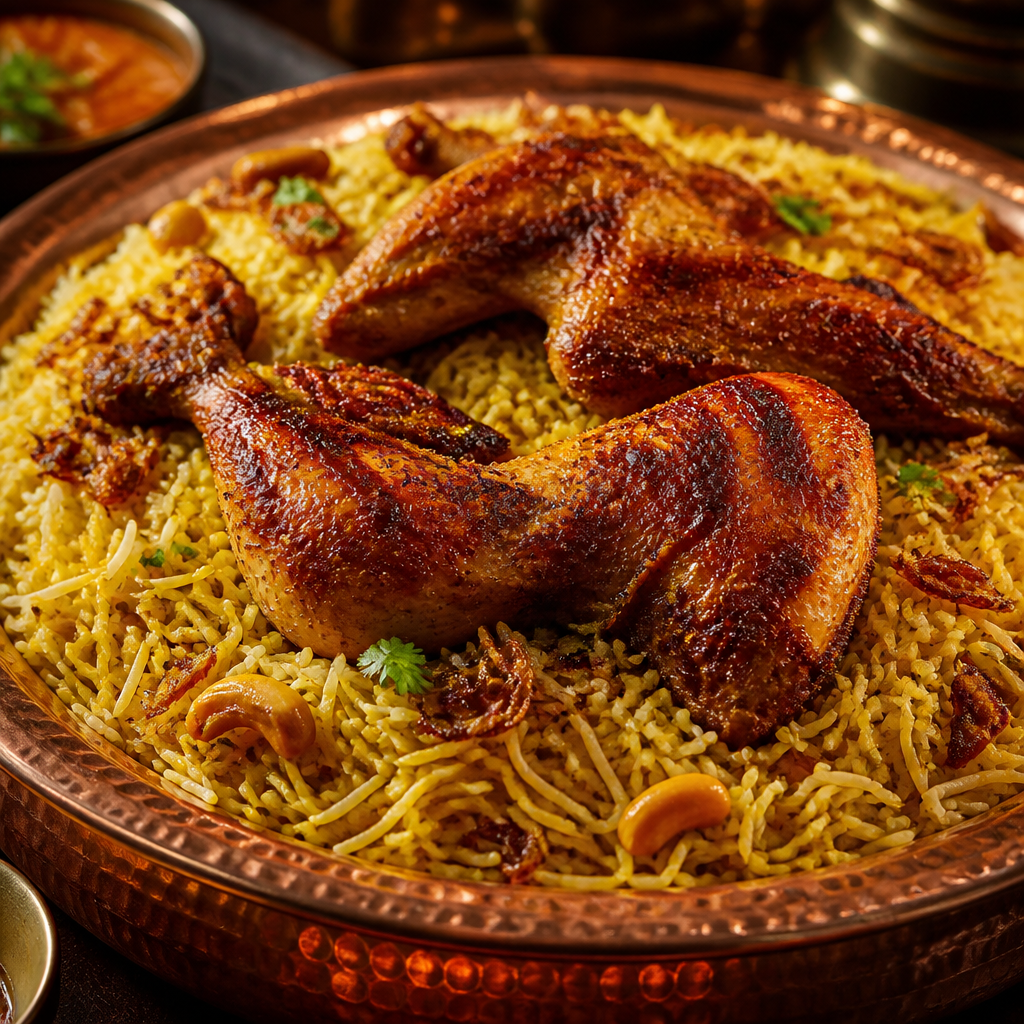
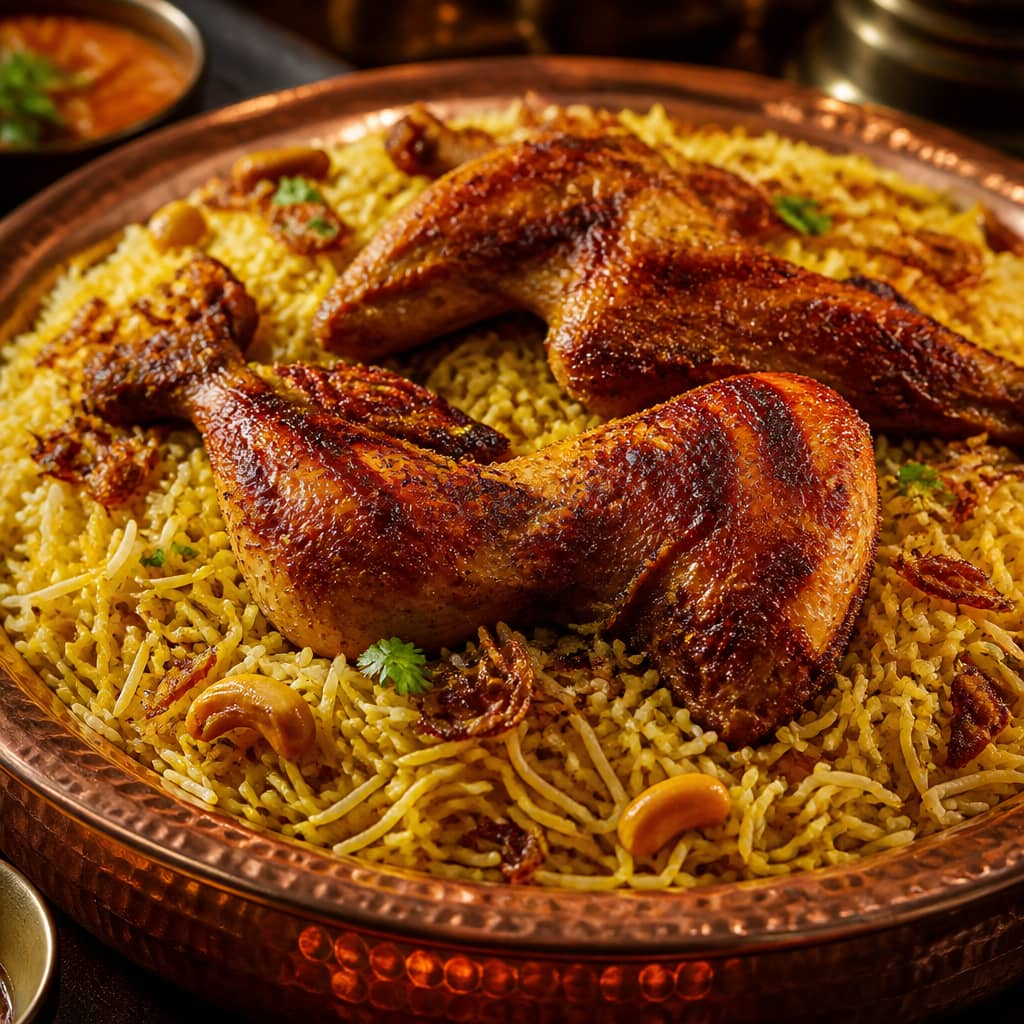
fix(store): اضغط لقطات مطعمنا1 حتى لا تثقل تحميل الصفحات.

diff --git a/src/config/storeMarketingReels.ts b/src/config/storeMarketingReels.ts
@@ -60,14 +60,9 @@ export const STORE_GROCERS_MARKETING_FRAMES = [
   ...GROCERS_GENERATED,
 ] as const;
 
-const RESTAURANT_GENERATED = [
-  '/images/store/restaurant/restaurant-01.jpg',
-  '/images/store/restaurant/restaurant-02.jpg',
-] as const;
-
 export const STORE_RESTAURANT_MARKETING_FRAMES = [
   '/images/store/restaurant-hero-marketing.jpg',
-  ...RESTAURANT_GENERATED,
+  '/images/store/restaurant/restaurant-02.jpg',
 ] as const;
 
 const OCCASION_QUICK = [
@@ -223,6 +218,7 @@ export function storeLiveProductReel(productId: string): StoreMarketingReelId {
   if (productId === 'coiffeur-map') return 'coiffeur';
   if (productId === 'occasion-card') return 'occasion';
   if (productId === 'live-halls') return 'lounge';
+  if (productId === 'restaurant') return 'restaurant';
   return 'landing';
 }
 
